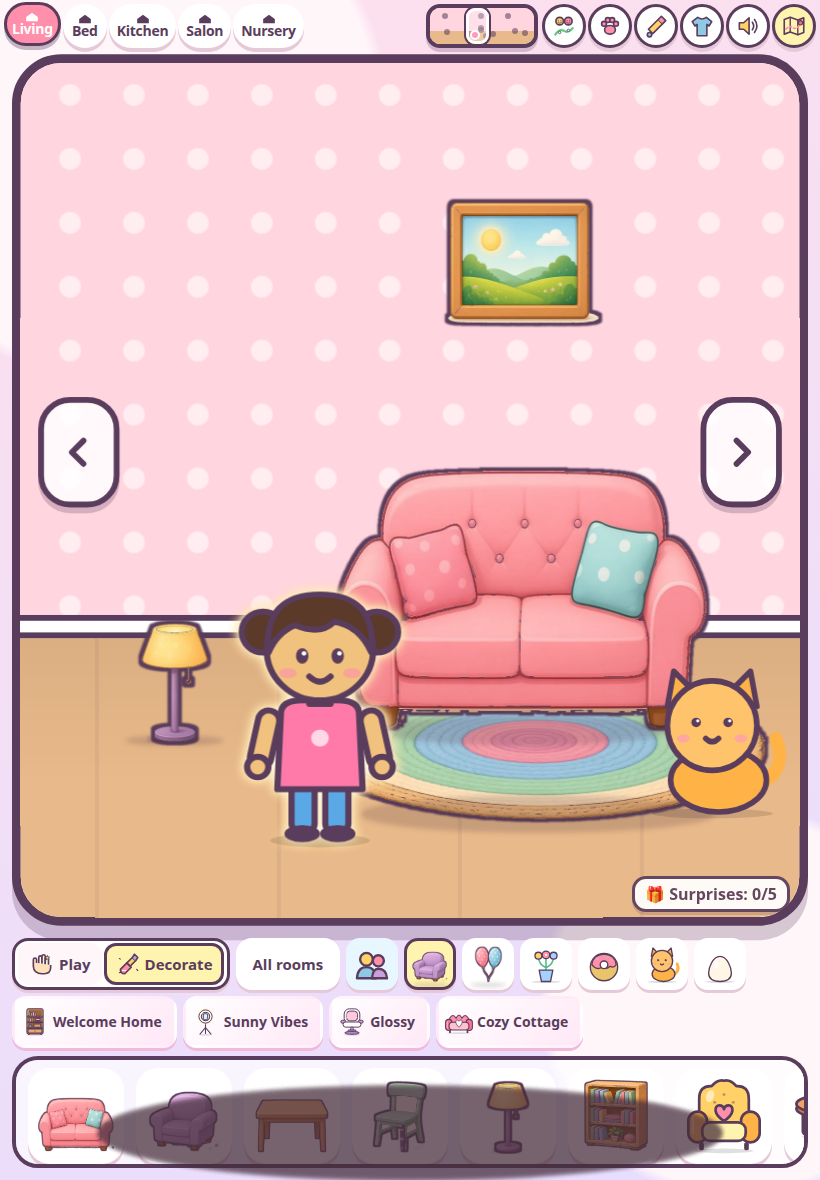
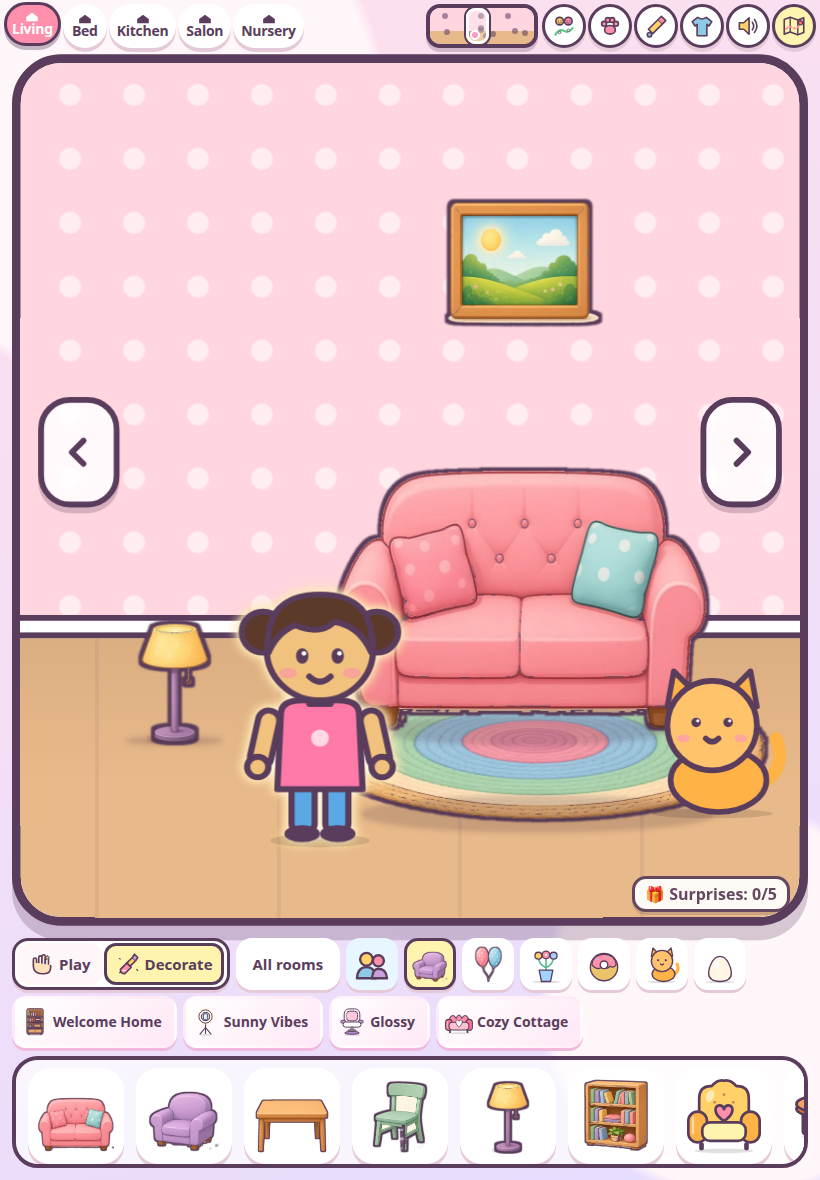
Keep contact shadows on the stage, not in the tray.
Thumbnails, category icons, the outfit tab, and the room tabs draw the painting alone. A floor piece on the stage still gets the soft shadow.

Changed region(s): [[0.122, 0.9153, 0.8841, 1.0]]

diff --git a/src/items.ts b/src/items.ts
@@ -92,12 +92,13 @@ export const svgMarkup = (d: ItemDef) => d.img
   : `<svg viewBox="${d.vb ?? '0 0 100 100'}" xmlns="http://www.w3.org/2000/svg">${d.svg}</svg>`;
 // A 3× WebP replaces the SVG only when this page asked for raster and the file loaded.
 // The footprint stays the item's w/h. A broken image falls back through installArtFallback.
-// Floor pieces get a separate contact shadow, so the painting's own feet stay on the SVG's feet.
-export const svgOf = (d: ItemDef) => {
+// A contact shadow is only for a piece standing on the stage. Tray thumbnails, tab
+// icons, and the drag ghost stay the clean painting.
+export const svgOf = (d: ItemDef, shade = false) => {
   const url = rasterOn() ? rasterUrl(d.kind) : undefined;
   if (!url) return svgMarkup(d);
-  const shade = d.wall ? '' : '<i class="artshade" aria-hidden="true"></i>';
-  return `${shade}<img class="packimg artimg" data-kind="${esc(d.kind)}" src="${esc(url)}" alt="${esc(d.name)}" draggable="false" />`;
+  const shadow = shade && !d.wall ? '<i class="artshade" aria-hidden="true"></i>' : '';
+  return `${shadow}<img class="packimg artimg" data-kind="${esc(d.kind)}" src="${esc(url)}" alt="${esc(d.name)}" draggable="false" />`;
 };
 
 let artFallbackOn = false;

diff --git a/src/style.css b/src/style.css
@@ -121,7 +121,7 @@ svg { display: block; width: 100%; height: 100%; overflow: visible; }
 .rf.on { background: #fff3b0; border-color: var(--ink); }
 .packimg { display: block; width: 100%; height: 100%; object-fit: contain; object-position: 50% 100%; pointer-events: none; -webkit-user-drag: none; }
 /* Soft contact shadow under a raster floor piece. The SVG shadow stays in the drawing for ?art=v1. */
-.artshade { position: absolute; left: 12%; width: 76%; bottom: 0; height: 8%; border-radius: 50%; background: rgba(70, 44, 62, .20); filter: blur(2px); pointer-events: none; }
+.item .artshade { position: absolute; left: 12%; width: 76%; bottom: 0; height: 8%; border-radius: 50%; background: rgba(70, 44, 62, .20); filter: blur(2px); pointer-events: none; }
 .item.flipped .inner .packimg, .ghost.flipped .packimg { transform: scaleX(-1); }
 .ghost .packimg, .thing .packimg { object-position: 50% 50%; }
 .empty { align-self: center; margin: auto; font-weight: 800; opacity: .5; font-size: 18px; }

diff --git a/src/main.ts b/src/main.ts
@@ -590,7 +590,7 @@ function renderItems(s: GameState) {
     if (!el) {
       el = document.createElement('div');
       el.className = 'item'; el.dataset.id = it.id;
-      el.innerHTML = `<div class="inner">${svgOf(def)}</div>`;
+      el.innerHTML = `<div class="inner">${svgOf(def, true)}</div>`;
       layer.appendChild(el);
       el.addEventListener('pointerdown', e => onItemPointer(el!, e));
     }

diff --git a/tests/raster_fallback.py b/tests/raster_fallback.py
@@ -1,5 +1,6 @@
 # Living-room WebPs load by item id. ?art=v1 ignores them, a clear pixel is not a hit,
-# and a broken URL falls back to the SVG.
+# and a broken URL falls back to the SVG. The tray, outfit tab, and room tabs never
+# render a contact shadow; only a floor piece on the stage does.
 import sys
 from playwright.sync_api import sync_playwright
 
@@ -14,9 +15,10 @@ JS = r'''async () => {
   ok('each living raster is a real item', living.every(k => a.ids.indexOf(k) >= 0 && a.has(k) === true));
   ok('sofa has its own raster', typeof a.rasterUrl('sofa') === 'string' && a.rasterUrl('sofa').indexOf('sofa') >= 0);
   a.setArtFromSearch('');
-  const sofa = a.svgOf(a.sofa);
+  const sofa = a.svgOf(a.sofa, true);
   ok('a floor raster gets a contact shadow', sofa.indexOf('artshade') >= 0 && sofa.indexOf('artimg') >= 0);
-  ok('a wall raster does not', a.svgOf(a.window).indexOf('artshade') < 0 && a.svgOf(a.window).indexOf('artimg') >= 0);
+  ok('a tray thumbnail has no contact shadow', a.svgOf(a.sofa).indexOf('artshade') < 0 && a.svgOf(a.sofa).indexOf('artimg') >= 0);
+  ok('a wall raster does not', a.svgOf(a.window, true).indexOf('artshade') < 0 && a.svgOf(a.window).indexOf('artimg') >= 0);
   const img = new Image();
   img.style.cssText = 'position:absolute;left:0;top:0';
   const src = a.rasterUrl('lamp');
@@ -42,7 +44,7 @@ JS = r'''async () => {
   const markup = a.svgOf(a.sofa);
   ok('default can use the webp', markup.indexOf('artimg') >= 0 && markup.indexOf('sofa') >= 0);
   a.rememberRaster('sofa', '/no-such-art.webp');
-  document.body.innerHTML = a.svgOf(a.sofa);
+  document.body.innerHTML = a.svgOf(a.sofa, true);
   const fell = await new Promise(res => {
     const start = Date.now();
     const tick = () => {
@@ -57,15 +59,61 @@ JS = r'''async () => {
   return notes;
 }'''
 
+# The catalog tray, the outfit tab, and the room tabs must not draw a contact shadow.
+# Only a floor piece on the stage does.
+TRAY = r'''async () => {
+  const notes = [];
+  const ok = (name, cond) => notes.push((cond ? 'PASS ' : 'FAIL ') + name);
+  const n = (sel) => document.querySelectorAll(sel).length;
+  const chrome = '#shelf .artshade, #cats .artshade, #tabs .artshade, #sheet .artshade, .ghost .artshade';
+  const waitArt = () => new Promise(res => {
+    const start = Date.now();
+    const tick = () => {
+      const imgs = [...document.querySelectorAll('#layer img.artimg')];
+      if (imgs.length >= 5 && imgs.every(i => i.complete && i.naturalWidth > 0)) res(true);
+      else if (Date.now() - start > 8000) res(false);
+      else requestAnimationFrame(tick);
+    };
+    tick();
+  });
+  ok('paintings are on the stage', await waitArt());
+  const shaded = [...document.querySelectorAll('#layer .artshade')].map(el => el.closest('.item')?.dataset.kind).sort();
+  ok('the tray, category tabs, and room tabs have no contact shadow', n(chrome) === 0);
+  ok('stage shadows sit only on the floor pieces', shaded.join(',') === 'armchair,bookshelf,lamp,plant,rug,sofa');
+  ok('the window on the stage has no contact shadow', n('#layer .item[data-kind="window"] .artshade') === 0);
+  document.querySelector('#cats button[data-cat="decor"]')?.click();
+  ok('decor thumbnails have no contact shadow', n('#shelf .artshade') === 0 && n('#shelf img.artimg') > 0);
+  document.querySelector('#cats button[data-cat="__people"]')?.click();
+  ok('the outfit tab has no contact shadow', n(chrome) === 0 && n('#shelf .thing.person') > 0);
+  document.querySelector('#btnDress')?.click();
+  await new Promise(r => setTimeout(r, 250));
+  ok('the outfit sheet has no contact shadow', n('#sheet .artshade') === 0 && !document.querySelector('#sheet')?.classList.contains('hidden'));
+  document.querySelector('#sheet [data-act="close"]')?.click();
+  document.querySelector('#tabs button[data-room="bedroom"]')?.click();
+  await new Promise(r => setTimeout(r, 400));
+  ok('a room tab keeps the tray free of contact shadows', n('#shelf .artshade, #cats .artshade, #tabs .artshade') === 0);
+  ok('the bedroom lamp keeps its stage shadow', n('#layer .item[data-kind="lamp"] .artshade') === 1);
+  ok('the bedroom window stays unshaded', n('#layer .item[data-kind="window"] .artshade') === 0);
+  document.querySelector('#cats button[data-cat="furniture"]')?.click();
+  ok('bedroom furniture thumbnails have no contact shadow', n('#shelf .artshade') === 0 && n('#shelf .thing img.artimg') > 0);
+  return notes;
+}'''
+
 def main():
     fails = 0
+    notes = []
     with sync_playwright() as p:
         browser = p.chromium.launch()
-        page = browser.new_page()
+        context = browser.new_context()
+        context.add_init_script("localStorage.setItem('cozy-whatsnew','8'); localStorage.setItem('avatar-intro','1');")
+        page = context.new_page()
         page.on('pageerror', lambda e: print('PAGEERROR', e, flush=True))
         page.goto(URL, wait_until='domcontentloaded')
         page.wait_for_function('window.__artReady === true', timeout=20000)
-        notes = page.evaluate(JS)
+        notes.extend(page.evaluate(JS))
+        origin = URL.split('/tests/')[0] + '/'
+        page.goto(origin, wait_until='domcontentloaded')
+        notes.extend(page.evaluate(TRAY))
         browser.close()
     for line in notes:
         print(line, flush=True)
